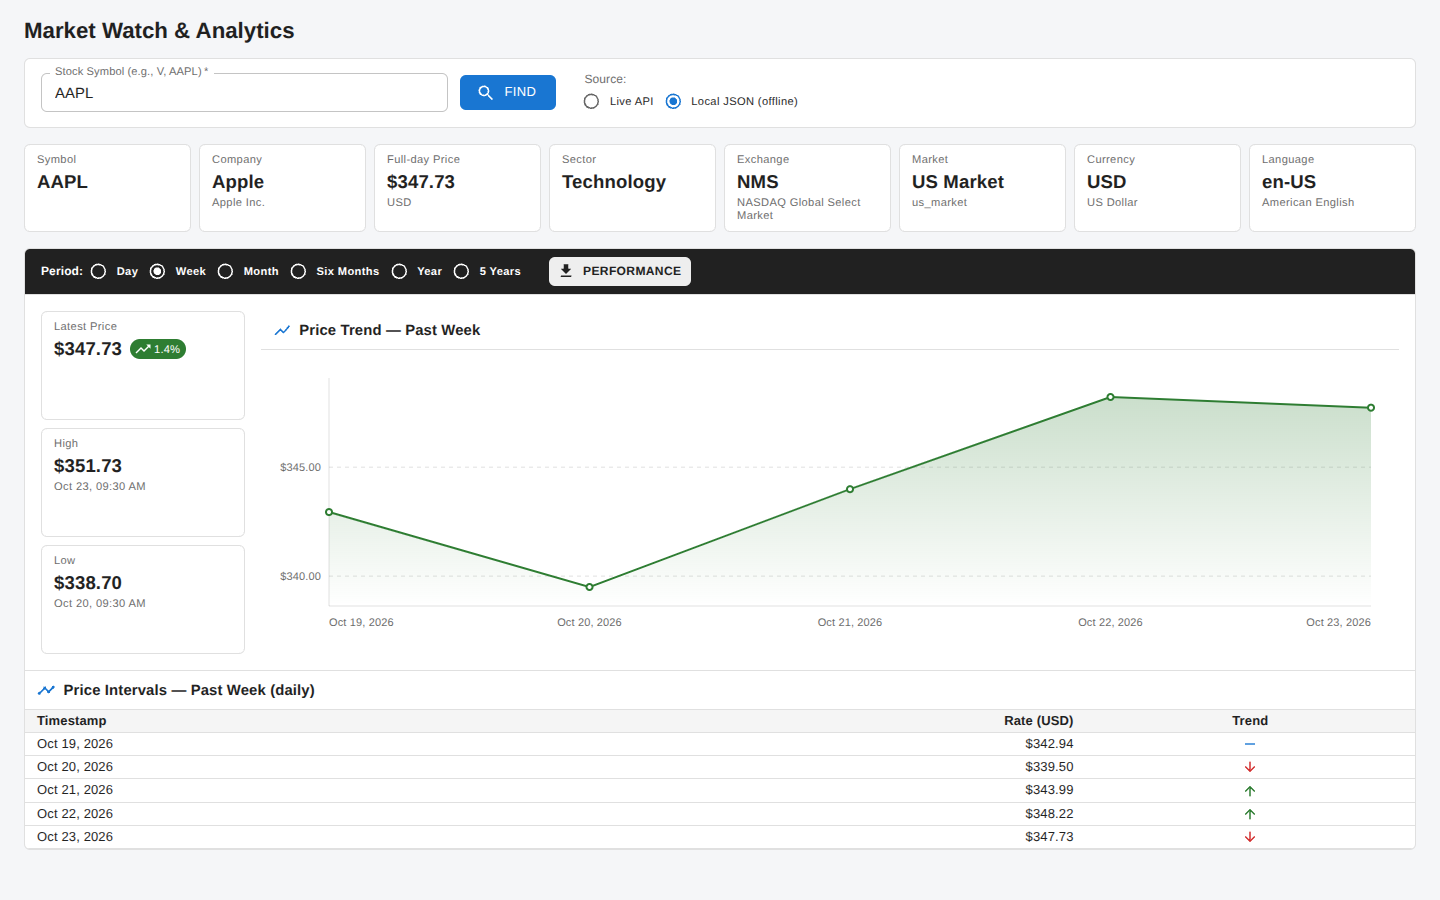
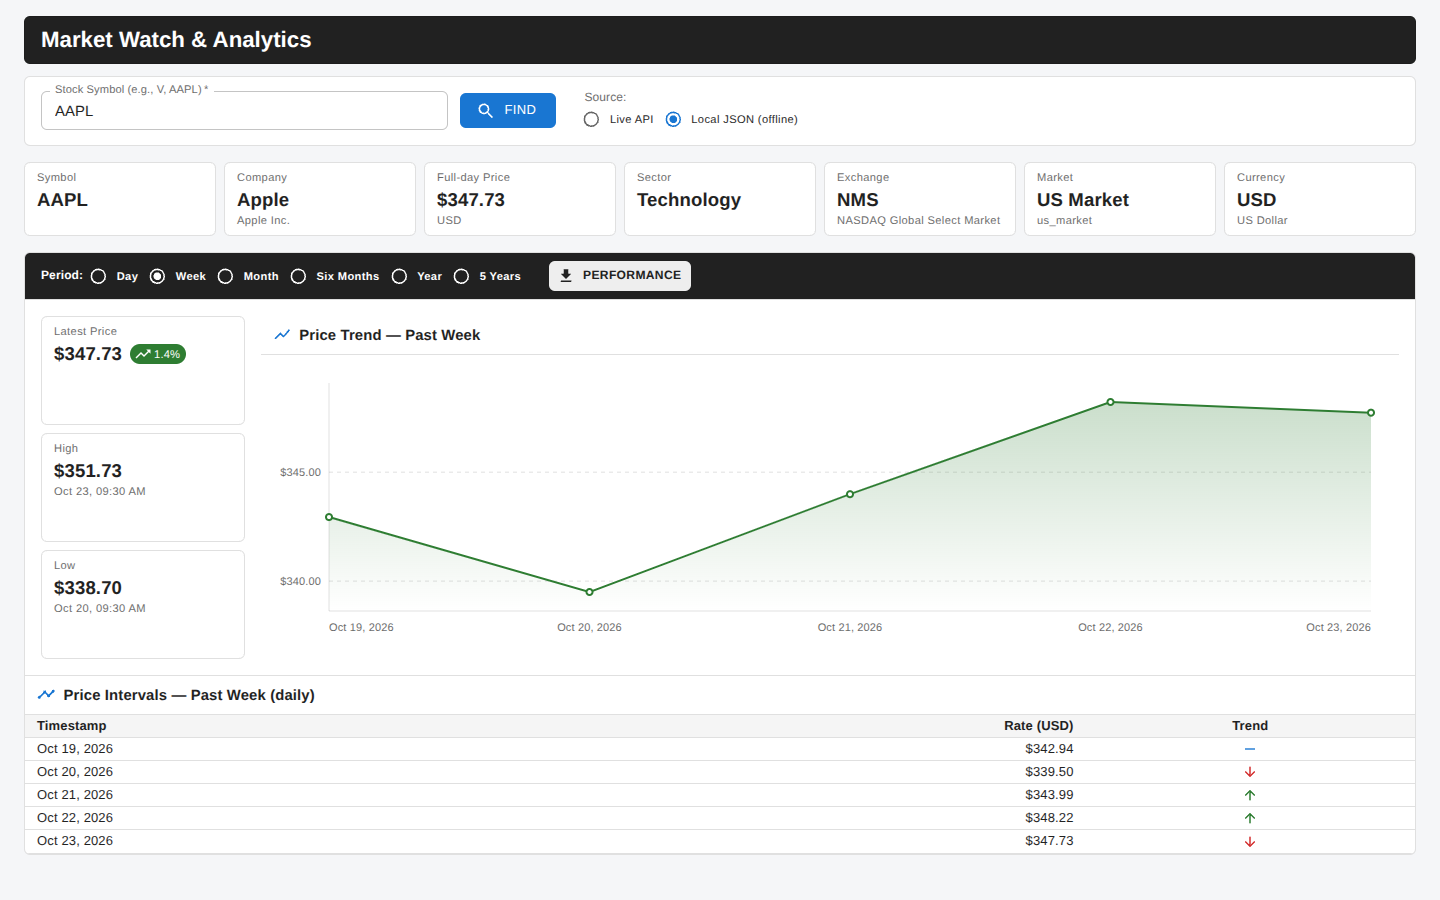
Market Watch UI - extension - seventh pass.

diff --git a/src/components/StockDetailCards.test.tsx b/src/components/StockDetailCards.test.tsx
@@ -16,7 +16,7 @@ const full: StockDetails = {
 };
 
 describe('StockDetailCards', () => {
-  it('renders a tile for every field of the /stock/{symbol} payload', () => {
+  it('renders a tile for every displayed field of the /stock/{symbol} payload', () => {
     render(<StockDetailCards details={full} />);
 
     expect(screen.getByTestId('summary-symbol')).toHaveTextContent('AAPL');
@@ -31,14 +31,13 @@ describe('StockDetailCards', () => {
     expect(screen.getByTestId('detail-market-secondary')).toHaveTextContent('us_market');
     expect(screen.getByTestId('detail-currency')).toHaveTextContent('USD');
     expect(screen.getByTestId('detail-currency-secondary')).toHaveTextContent('US Dollar');
-    expect(screen.getByTestId('detail-language')).toHaveTextContent('en-US');
-    expect(screen.getByTestId('detail-language-secondary')).toHaveTextContent('American English');
+    expect(screen.queryByTestId('detail-language')).not.toBeInTheDocument(); // deliberately not shown
   });
 
   it('lays the tiles out in order inside a single grid', () => {
     render(<StockDetailCards details={full} />);
     const grid = screen.getByTestId('detail-tiles');
-    expect(grid.children).toHaveLength(8);
+    expect(grid.children).toHaveLength(7);
     expect(Array.from(grid.children).map((tile) => tile.textContent)).toEqual([
       'SymbolAAPL',
       'CompanyAppleApple Inc.',
@@ -47,7 +46,6 @@ describe('StockDetailCards', () => {
       'ExchangeNMSNASDAQ Global Select Market',
       'MarketUS Marketus_market',
       'CurrencyUSDUS Dollar',
-      'Languageen-USAmerican English',
     ]);
   });
 
@@ -71,7 +69,6 @@ describe('StockDetailCards', () => {
     );
     expect(screen.queryByTestId('detail-exchange-secondary')).not.toBeInTheDocument();
     expect(screen.queryByTestId('detail-currency-secondary')).not.toBeInTheDocument();
-    expect(screen.queryByTestId('detail-language-secondary')).not.toBeInTheDocument();
     expect(screen.getByTestId('detail-fullday-price')).toHaveTextContent('QQQ 1.00'); // Intl's own form for unknown codes
   });
 

diff --git a/src/components/StockDetailCards.tsx b/src/components/StockDetailCards.tsx
@@ -1,12 +1,6 @@
 import { Box } from '@mui/material';
 import type { StockDetails } from '../types/stock.ts';
-import {
-  describeCurrency,
-  describeExchange,
-  describeLanguage,
-  formatMarket,
-  formatPrice,
-} from '../utils/format.ts';
+import { describeCurrency, describeExchange, formatMarket, formatPrice } from '../utils/format.ts';
 import Tile from './Tile.tsx';
 
 interface StockDetailCardsProps {
@@ -18,10 +12,12 @@ export const DETAIL_TILE_MIN_WIDTH = 160;
 
 /**
  * Responsive grid of reference-data tiles from `GET /stock/{symbol}`.
- * Only the symbol is guaranteed; every other tile appears when the field is present.
+ * Only the symbol is guaranteed; every other tile appears when the field is present
+ * (the `language` field is deliberately not tiled).
  */
 export default function StockDetailCards({ details }: StockDetailCardsProps) {
-  const { symbol, displayName, longName, sector, exchange, market, currency, language, fulldayPrice } = details;
+  // `language` is parsed and kept on the model but intentionally not shown.
+  const { symbol, displayName, longName, sector, exchange, market, currency, fulldayPrice } = details;
 
   return (
     <Box
@@ -29,7 +25,7 @@ export default function StockDetailCards({ details }: StockDetailCardsProps) {
       sx={{
         display: 'grid',
         gap: 1,
-        gridTemplateColumns: `repeat(auto-fill, minmax(${DETAIL_TILE_MIN_WIDTH}px, 1fr))`,
+        gridTemplateColumns: `repeat(auto-fit, minmax(${DETAIL_TILE_MIN_WIDTH}px, 1fr))`,
       }}
     >
       <Tile label="Symbol" testId="summary-symbol">
@@ -69,12 +65,6 @@ export default function StockDetailCards({ details }: StockDetailCardsProps) {
       {currency && (
         <Tile label="Currency" testId="detail-currency" secondary={describeCurrency(currency)}>
           {currency}
-        </Tile>
-      )}
-
-      {language && (
-        <Tile label="Language" testId="detail-language" secondary={describeLanguage(language)}>
-          {language}
         </Tile>
       )}
     </Box>

diff --git a/src/utils/format.test.ts b/src/utils/format.test.ts
@@ -1,11 +1,5 @@
 import { describe, expect, it } from 'vitest';
-import {
-  describeCurrency,
-  describeExchange,
-  describeLanguage,
-  formatMarket,
-  formatPrice,
-} from './format.ts';
+import { describeCurrency, describeExchange, describeInterval, formatMarket, formatPrice } from './format.ts';
 
 describe('formatPrice', () => {
   it('formats in the given currency with two decimals', () => {
@@ -52,17 +46,30 @@ describe('formatMarket', () => {
   });
 });
 
-describe('describeCurrency / describeLanguage', () => {
+describe('describeCurrency', () => {
   it('describes well-known codes', () => {
     expect(describeCurrency('USD')).toBe('US Dollar');
     expect(describeCurrency('eur')).toBe('Euro');
-    expect(describeLanguage('en-US')).toBe('American English');
   });
 
   it('is undefined for unknown or invalid codes', () => {
     expect(describeCurrency('ZZZ')).toBeUndefined();
     expect(describeCurrency('not a code')).toBeUndefined();
-    expect(describeLanguage('xx-YY')).toBeUndefined();
-    expect(describeLanguage('not a tag')).toBeUndefined();
+  });
+});
+
+describe('describeInterval', () => {
+  it('describes the API sampling intervals', () => {
+    expect(describeInterval('1h')).toBe('hourly');
+    expect(describeInterval('1d')).toBe('daily');
+    expect(describeInterval('1wk')).toBe('weekly');
+    expect(describeInterval('2wk')).toBe('every 2 weeks');
+    expect(describeInterval('1mo')).toBe('monthly');
+    expect(describeInterval('15m')).toBe('every 15 minutes');
+  });
+
+  it('returns unknown formats unchanged', () => {
+    expect(describeInterval('tick')).toBe('tick');
+    expect(describeInterval('')).toBe('');
   });
 });

diff --git a/src/App.test.tsx b/src/App.test.tsx
@@ -38,7 +38,6 @@ const EXPECTED_AAPL_TILES = [
   'ExchangeNMSNASDAQ Global Select Market',
   'MarketUS Marketus_market',
   'CurrencyUSDUS Dollar',
-  'Languageen-USAmerican English',
 ];
 
 function buildService(local: StockProvider = createLocalStockProvider(loadLocalJson)) {
@@ -64,6 +63,21 @@ const periodRadio = (label: string | RegExp) =>
 const fetchButton = () => screen.getByRole('button', { name: 'Performance' });
 
 describe('App', () => {
+  it('styles the page header like the past-performance toolbar (dark, white bold text)', async () => {
+    render(<App service={buildService()} lookupOptions={{ minLoadingMs: 0 }} />);
+    const header = screen.getByTestId('app-header');
+    expect(header).toContainElement(screen.getByRole('heading', { level: 1, name: 'Market Watch & Analytics' }));
+
+    await lookup('AAPL', 'local');
+    await screen.findByTestId('summary-symbol');
+    const toolbar = screen.getByTestId('past-performance-toolbar');
+
+    for (const prop of ['backgroundColor', 'color', 'fontWeight', 'paddingLeft', 'paddingTop'] as const) {
+      expect(getComputedStyle(header)[prop]).toBe(getComputedStyle(toolbar)[prop]);
+    }
+    expect(getComputedStyle(header).backgroundColor).toBe('rgb(33, 33, 33)');
+  });
+
   it('renders the detail tiles from GET /stock/{symbol} for the live API source', async () => {
     render(<App service={buildService()} lookupOptions={{ minLoadingMs: 0 }} />);
     await lookup('aapl', 'api');

diff --git a/src/components/PastPerformanceSection.tsx b/src/components/PastPerformanceSection.tsx
@@ -5,6 +5,7 @@ import { performancePeriodLabel, type PerformancePeriod } from '../types/perform
 import type { PastPerformance, StockDetails } from '../types/stock.ts';
 import { describeInterval } from '../utils/format.ts';
 import { LAYOUT } from '../layout.ts';
+import { DARK_TOOLBAR_SX } from './darkToolbar.ts';
 import ErrorBanner from './ErrorBanner.tsx';
 import LoadingIndicator from './LoadingIndicator.tsx';
 import PeriodSelector from './PeriodSelector.tsx';
@@ -57,20 +58,7 @@ export default function PastPerformanceSection({
       data-testid="past-performance"
       sx={{ display: 'flex', flexDirection: 'column', overflow: 'hidden' }}
     >
-      <Box
-        data-testid="past-performance-toolbar"
-        sx={{
-          px: 2,
-          py: 1,
-          display: 'flex',
-          alignItems: 'center',
-          gap: 2,
-          flexWrap: 'wrap',
-          bgcolor: 'grey.900',
-          color: 'common.white',
-          fontWeight: 700,
-        }}
-      >
+      <Box data-testid="past-performance-toolbar" sx={DARK_TOOLBAR_SX}>
         <PeriodSelector value={period} onChange={onPeriodChange} disabled={loading} contrast />
         <Button
           variant="contained"

diff --git a/src/App.tsx b/src/App.tsx
@@ -1,5 +1,6 @@
 import { useCallback, useMemo, useState } from 'react';
-import { Box, Container, Typography } from '@mui/material';
+import { Box, Container, Paper, Typography } from '@mui/material';
+import { DARK_TOOLBAR_SX } from './components/darkToolbar.ts';
 import LookupForm from './components/LookupForm.tsx';
 import StockDetailCards from './components/StockDetailCards.tsx';
 import PastPerformanceSection from './components/PastPerformanceSection.tsx';
@@ -73,9 +74,11 @@ export default function App({ service, lookupOptions }: AppProps) {
 
   return (
     <Container maxWidth={false} sx={{ py: 2, px: { xs: 2, md: 3 } }}>
-      <Typography variant="h5" component="h1" sx={{ mb: 1.5 }}>
-        Market Watch &amp; Analytics
-      </Typography>
+      <Paper data-testid="app-header" sx={{ ...DARK_TOOLBAR_SX, mb: 1.5 }}>
+        <Typography variant="h5" component="h1" sx={{ fontWeight: 700, color: 'inherit' }}>
+          Market Watch &amp; Analytics
+        </Typography>
+      </Paper>
 
       <LookupForm
         symbol={symbol}

diff --git a/src/utils/format.ts b/src/utils/format.ts
@@ -46,7 +46,7 @@ export function formatMarket(market: string): string {
     .join(' ');
 }
 
-function displayName(type: 'currency' | 'language', code: string): string | undefined {
+function displayName(type: 'currency', code: string): string | undefined {
   try {
     const name = new Intl.DisplayNames([LOCALE], { type, fallback: 'none' }).of(code);
     // Some engines echo the code back instead of honouring `fallback: 'none'`.
@@ -59,11 +59,6 @@ function displayName(type: 'currency' | 'language', code: string): string | unde
 /** `"USD" → "US Dollar"`, or `undefined` for unknown codes. */
 export function describeCurrency(code: string): string | undefined {
   return displayName('currency', code.toUpperCase());
-}
-
-/** `"en-US" → "American English"`, or `undefined` for unknown tags. */
-export function describeLanguage(tag: string): string | undefined {
-  return displayName('language', tag);
 }
 
 const INTERVAL_UNITS: Readonly<Record<string, [singular: string, adverb: string]>> = {

diff --git a/src/components/darkToolbar.ts b/src/components/darkToolbar.ts
@@ -1,0 +1,18 @@
+import type { SxProps, Theme } from '@mui/material';
+
+/**
+ * Shared look of the dark bars: the page header ("Market Watch & Analytics") and the
+ * past-performance toolbar (period radios + Performance button). Dark background,
+ * white bold text, compact padding.
+ */
+export const DARK_TOOLBAR_SX: SxProps<Theme> = {
+  px: 2,
+  py: 1,
+  display: 'flex',
+  alignItems: 'center',
+  gap: 2,
+  flexWrap: 'wrap',
+  bgcolor: 'grey.900',
+  color: 'common.white',
+  fontWeight: 700,
+};

diff --git a/README.md b/README.md
@@ -99,12 +99,14 @@ without touching the data or service layers.
 
 The UI is a single-screen dashboard (`Container maxWidth={false}`):
 
+- **Header** — "Market Watch & Analytics" in a dark bar with white bold text, styled identically to the
+  past-performance toolbar (both use `DARK_TOOLBAR_SX` from `components/darkToolbar.ts`).
 - **Lookup row** — symbol input (30% width), "Find" button directly beside it (disabled until a
   symbol is typed), and a compact data-source selector, all on one line (wraps below the `md` breakpoint).
 - **Detail tiles** — a responsive grid (`auto-fill`, 160px minimum per tile) of the `GET /stock/{symbol}`
   fields: Symbol, Company (display name + long name), Full-day Price (formatted in the stock's currency),
-  Sector, Exchange (code + name for known codes), Market (humanised), Currency and Language (code + name
-  via `Intl.DisplayNames`). Tiles for absent fields are not rendered.
+  Sector, Exchange (code + name for known codes), Market (humanised) and Currency (code + name via
+  `Intl.DisplayNames`). Tiles for absent fields are not rendered; `language` is parsed but deliberately not shown.
 - **Past Performance** — a single panel beneath the tiles, with no visible title (the region is named
   "Past Performance" for assistive tech). Its dark toolbar holds the period radio group in white bold text
   (Day / Week / Month / Six Months / Year / 5 Years, default Day; the choice persists across lookups) and a
@@ -171,6 +173,7 @@ src/
   charts/scales.ts                        linear scale, domain padding, nice ticks (pure)
   charts/paths.ts                         SVG path-string builders (pure)
   charts/priceChartLayout.ts              TrendPoint[] -> scaled points, ticks, paths (pure)
+  components/darkToolbar.ts               shared dark-bar style (page header + past-performance toolbar)
   components/                             LookupForm, LoadingIndicator, ErrorBanner, Tile, StockDetailCards,
                                           PastPerformanceSection, PeriodSelector, StockSummaryCards,
                                           PriceChart, HourlyPriceTable, TrendIndicator
